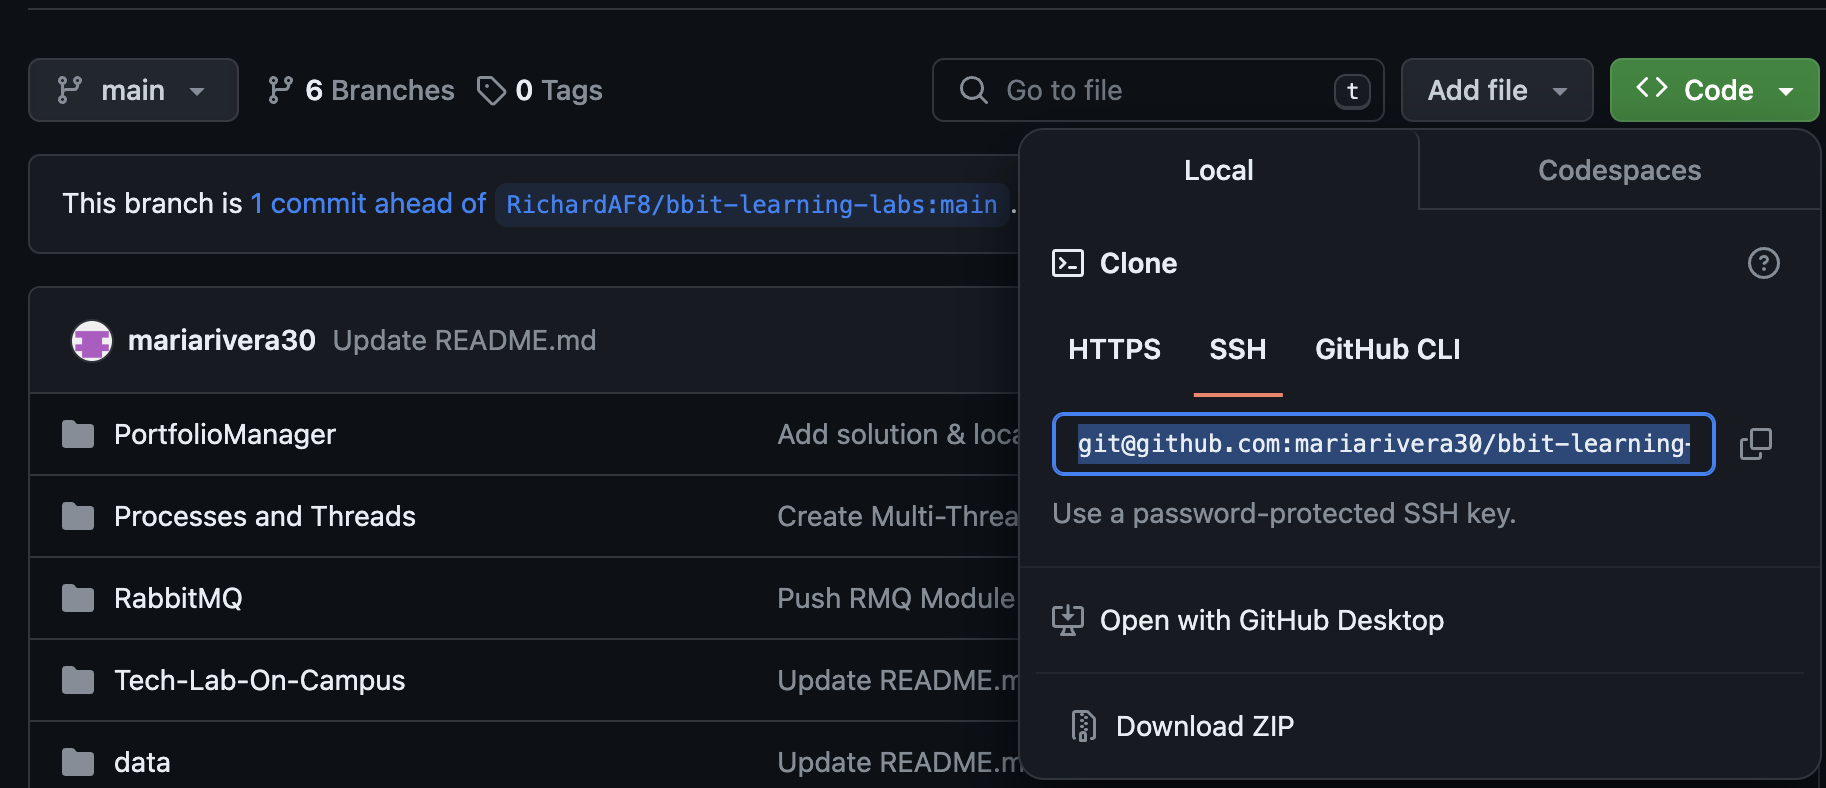
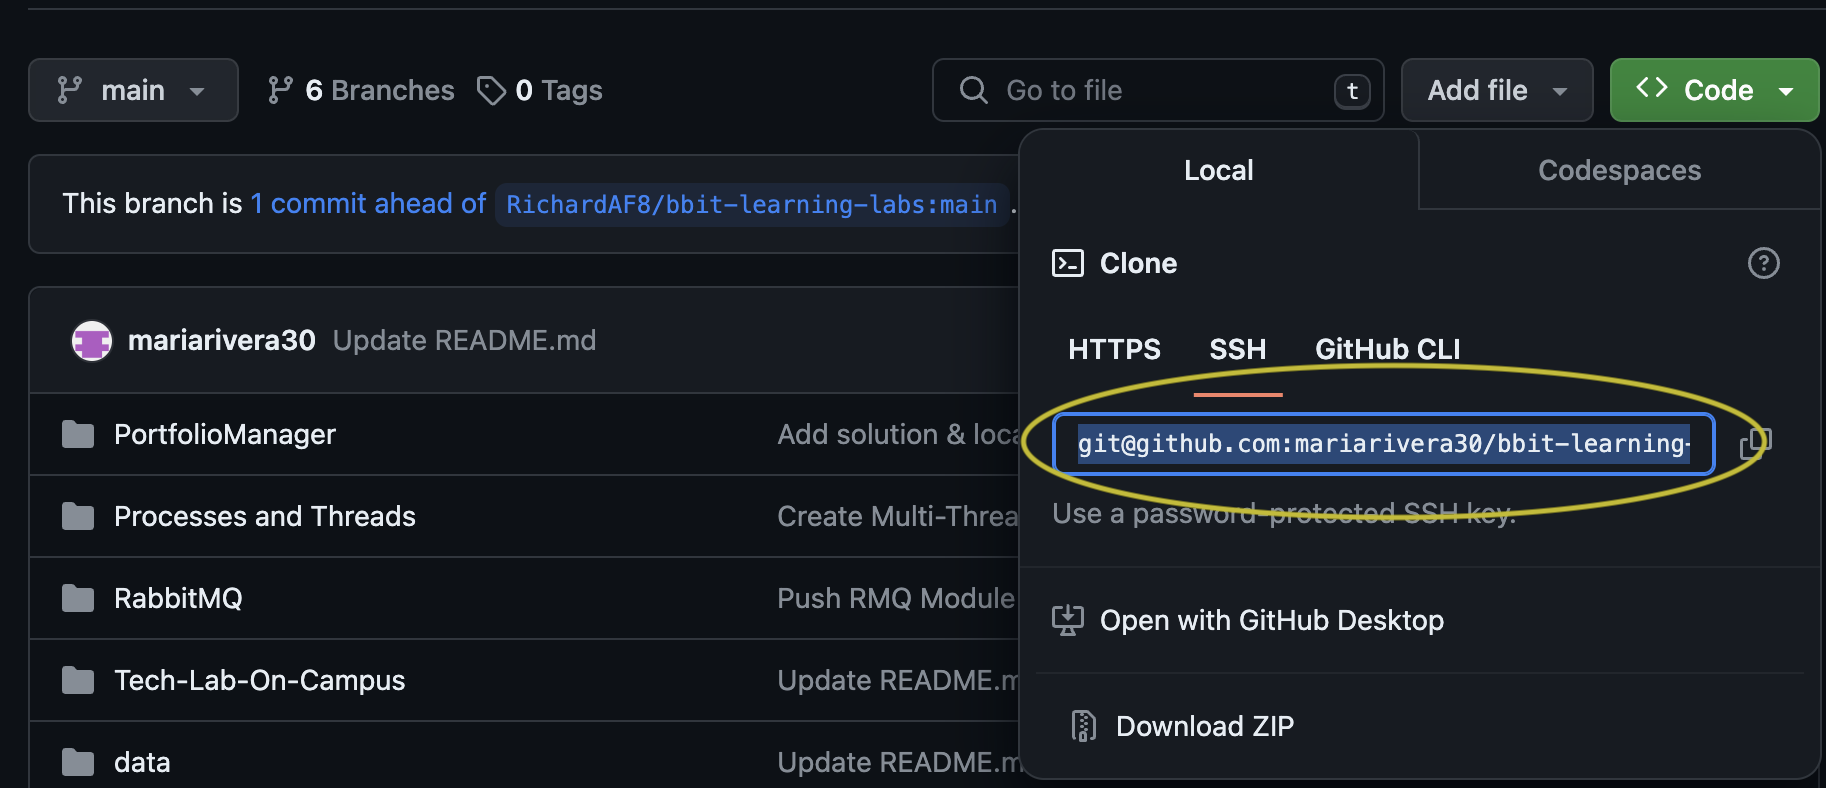
update readme with feedback

diff --git a/Tech-Lab-On-Campus/README.md b/Tech-Lab-On-Campus/README.md
@@ -4,6 +4,11 @@
 
 The idea of this lab is to offer exposure to the RabbitMQ messaging framework, providing a basic understanding of the technology and the producer consumer relationship. During the lab you will apply your learning to create small system to setup information update on securities on interest. 
 
+## Unit Ordering List
+
+1. [Producer-AND-Consumer](./Producer-AND-Consumer)
+2. [Topic-Exchange](./Topic-Exchange)
+
 ## Key Learning Items
 
 - Python CS Concepts
@@ -30,7 +35,7 @@ For this project, we're going to leverage the use of Docker to create a helpful 
   * Note: Replace the username
 
     ```sh
-    git clone git@github.com:[username]/bbit-learning-labs.git
+    git clone [SSH KEY]
     ```
 
 3. Navigate to the 'Tech-Lab-On-Campus' folder.
@@ -47,7 +52,7 @@ For this project, we're going to leverage the use of Docker to create a helpful 
 
 5. Utilize Docker to generate and execute a functional image of the project directly from the terminal within your chosen Integrated Development Environment (IDE). 
 
-Follow the steps outlined below to ensure a smooth setup and execution process:
+There are two options to work on this project. Option [A] using an IDE, we recommend using VSCode. Option [B] using the jupyter notebook. Follow the steps outlined for the desired option to ensure a smooth setup and execution process:
 
 * A) IDE  
     * In the terminal window of your IDE run:
@@ -59,18 +64,6 @@ Follow the steps outlined below to ensure a smooth setup and execution process:
 
         * Note: If you encounter an error such as `unix:///Users/userName/.docker/run/docker.sock. Is the docker daemon running?`, please ensure that your Docker application is running.
 
-    * Log Into the RabbitMQ Website.
-        * From your desktop, open Docker Desktop Dashboard.
-        * Find the Rabbitmq container and click on the URL under Port(s) for the U.I. This should open up the RabbitMQ website on your default browser.
-        * Login username and password should be "guest"
-    
-    * Alternative:  Click on one of the generated URLs in your terminal, such as "http://localhost:15672/", once your docker container is up and running.
-    
-    * After setting up IDE you should have access to rabbit mq management. It will look like the following.
-        ![rabbitmqup](../data/rabbit_mq_up.PNG)   
-    * You are now ready to start the lab. Begin by navigating to the producer folder and reading the "README.md" file. Each of the three units will contain a readme file which will give you the necessary instructions to complete the lab and test your solution.
-
-  
 * B) Jupyter Notebook
     * In the terminal window of your IDE run:
         ```sh
@@ -84,12 +77,17 @@ Follow the steps outlined below to ensure a smooth setup and execution process:
             rmq_lab-1   |         http://d572024fabe2:8888/lab?token=4a07fca9cd4a66eba129533a6272f5f5443fdf3f0b7c0e5e
             rmq_lab-1   |         http://127.0.0.1:8888/lab?token=4a07fca9cd4a66eba129533a6272f5f5443fdf3f0b7c0e5e
         ```
+* Log Into the RabbitMQ Website.
+        * From your desktop, open Docker Desktop Dashboard.
+        * Find the Rabbitmq container and click on the URL under Port(s) for the U.I. This should open up the RabbitMQ website on your default browser.
+        * Login username and password should be "guest"
+    
+    * Alternative:  Click on one of the generated URLs in your terminal, such as "http://localhost:15672/", once your docker container is up and running.
+    
+    * After setting up IDE you should have access to rabbit mq management. It will look like the following.
+        ![rabbitmqup](../data/rabbit_mq_up.PNG)   
+    * You are now ready to start the lab. Begin by navigating to the [Producer-AND-Consumer](./Producer-AND-Consumer) folder and reading the "README.md" file. Each of the units will contain a readme file which will give you the necessary instructions to complete the lab and test your solution.
    
 6. Helpful information can be found under [Resources](./Resources). Files with Python, GIT, and Rabbit Mq details. Ensure you read them before you start working on your implementation.
 
-## Unit Ordering List
-
-1. Producer 
-2. Consumer 
-3. Market Watch
 
